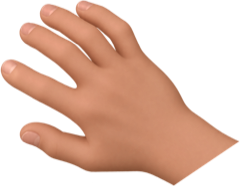
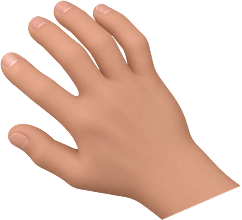
Restyle the tap hand and its label in the settings window
The right hand is a new 4x picture, 60 pt wide, placed to the design,
and the Tap label moves with it. Both hand labels use the regular
weight of the 11 pt tooltip font.

diff --git a/LauncherKit/Sources/LauncherUI/SettingsView.swift b/LauncherKit/Sources/LauncherUI/SettingsView.swift
@@ -282,13 +282,13 @@ struct HandGuide: View {
             }
             BundleImage.view("right-hand", type: "png", width: 60)
                 .opacity(0.9)
-                .offset(x: 55, y: 24)
+                .offset(x: 54.5, y: 26)
             if showsHoldHand {
                 HandLabel(text: "Hold", dot: .hold)
                     .offset(x: -11, y: 49)
             }
             HandLabel(text: "Tap", dot: .tap)
-                .offset(x: 92, y: 55)
+                .offset(x: 82, y: 65)
         }
         .accessibilityElement(children: .ignore)
         .accessibilityLabel(
@@ -298,7 +298,7 @@ struct HandGuide: View {
     }
 }
 
-/// A small light tooltip: a dot, then the word, in the macOS tooltip's 11 pt medium. The shadows sit on the background
+/// A small light tooltip: a dot, then the word, in the macOS tooltip's 11 pt regular. The shadows sit on the background
 /// shape alone, so the text and the dot are never rasterised through them.
 struct HandLabel: View {
     /// The name of the dot's SVG in the bundle.
@@ -310,7 +310,7 @@ struct HandLabel: View {
     var body: some View {
         HStack(spacing: 4) {
             BundleImage.view(dot.rawValue)
-            Text(text).font(.system(size: 11, weight: .medium)).foregroundStyle(.black)
+            Text(text).font(.system(size: 11)).foregroundStyle(.black)
         }
         .padding(.leading, 6).padding(.trailing, 6).padding(.top, 3).padding(.bottom, 2)
         .frame(height: 18)
